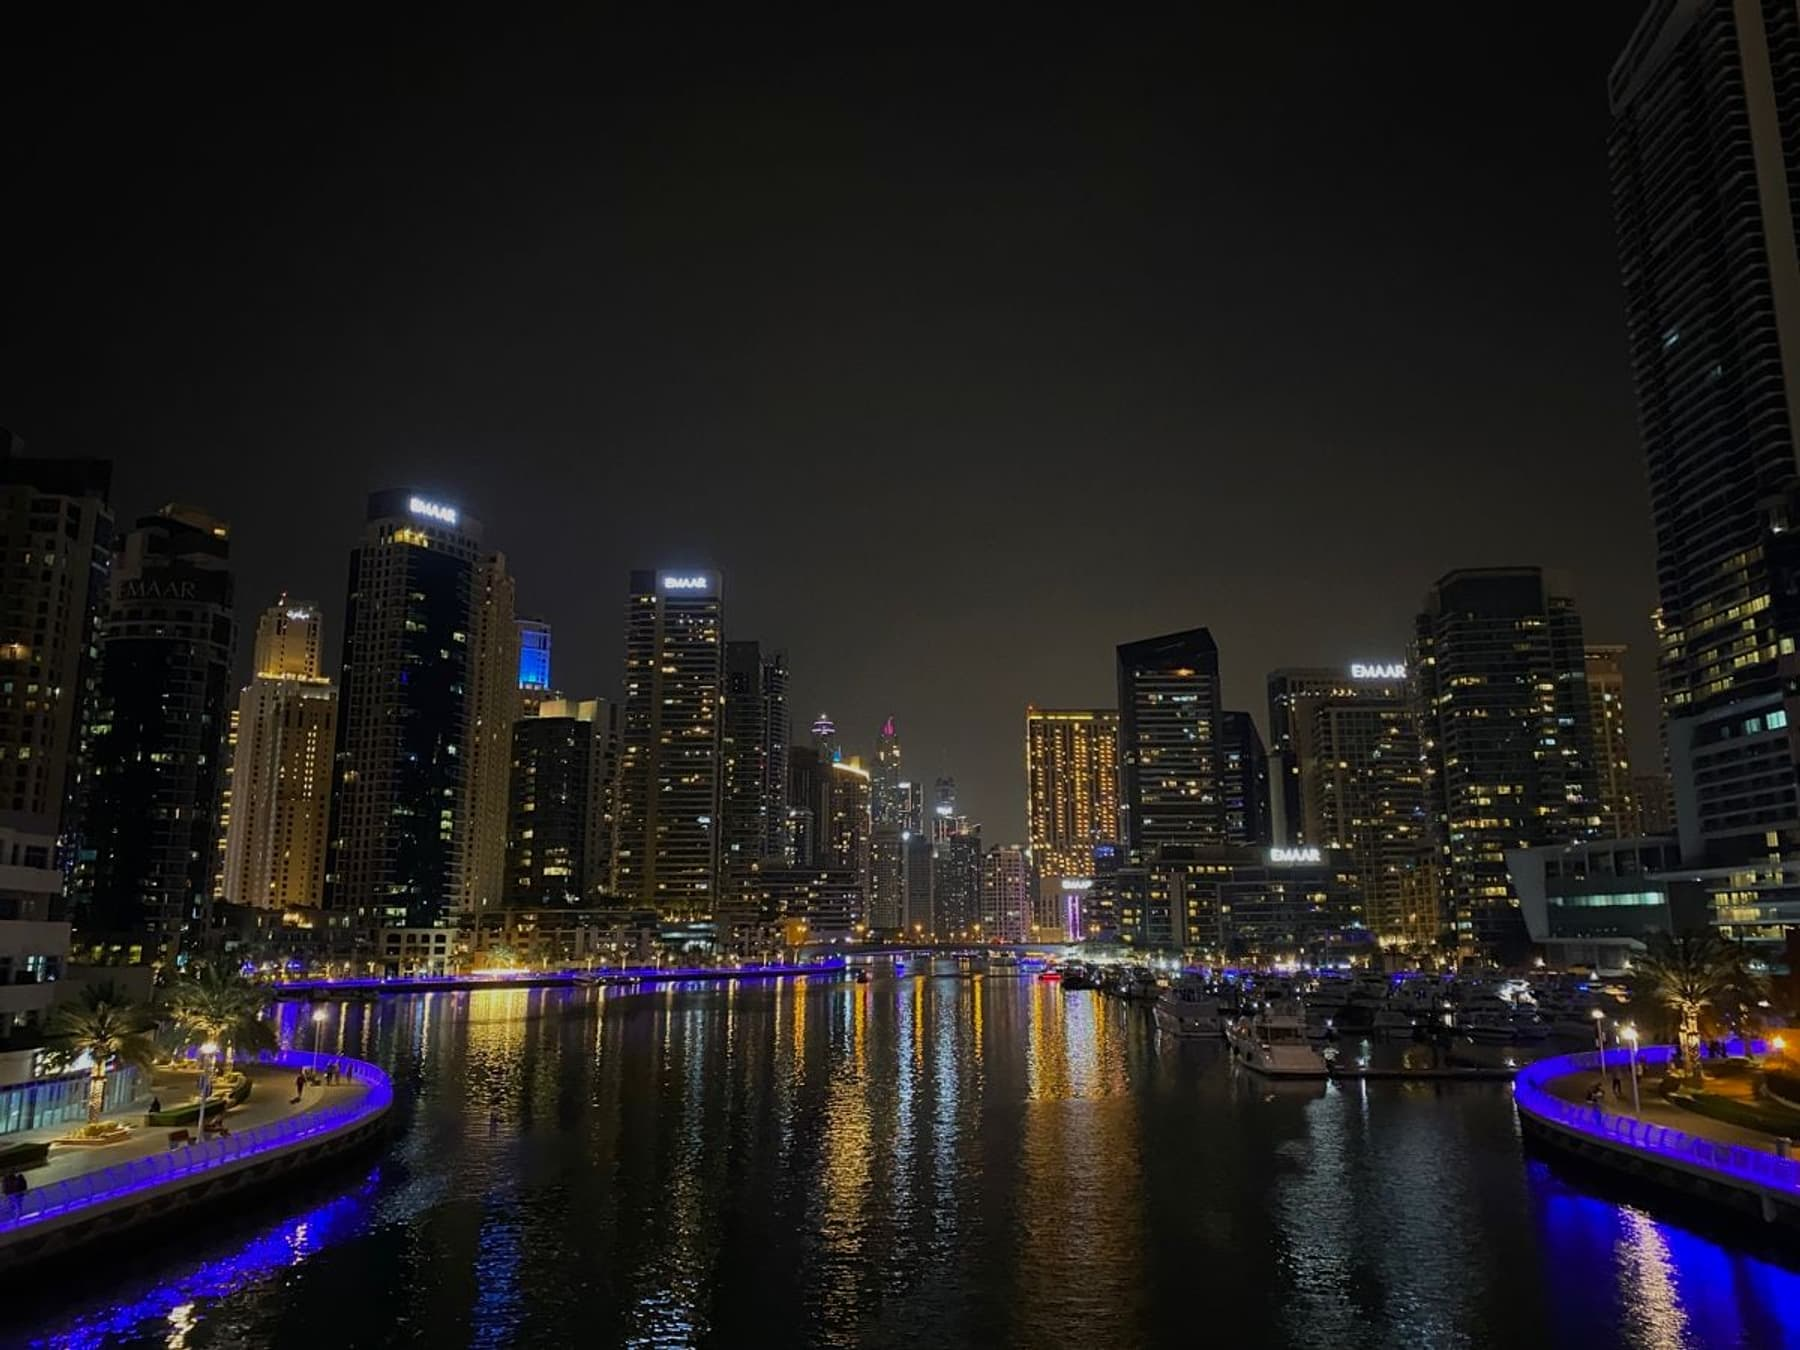
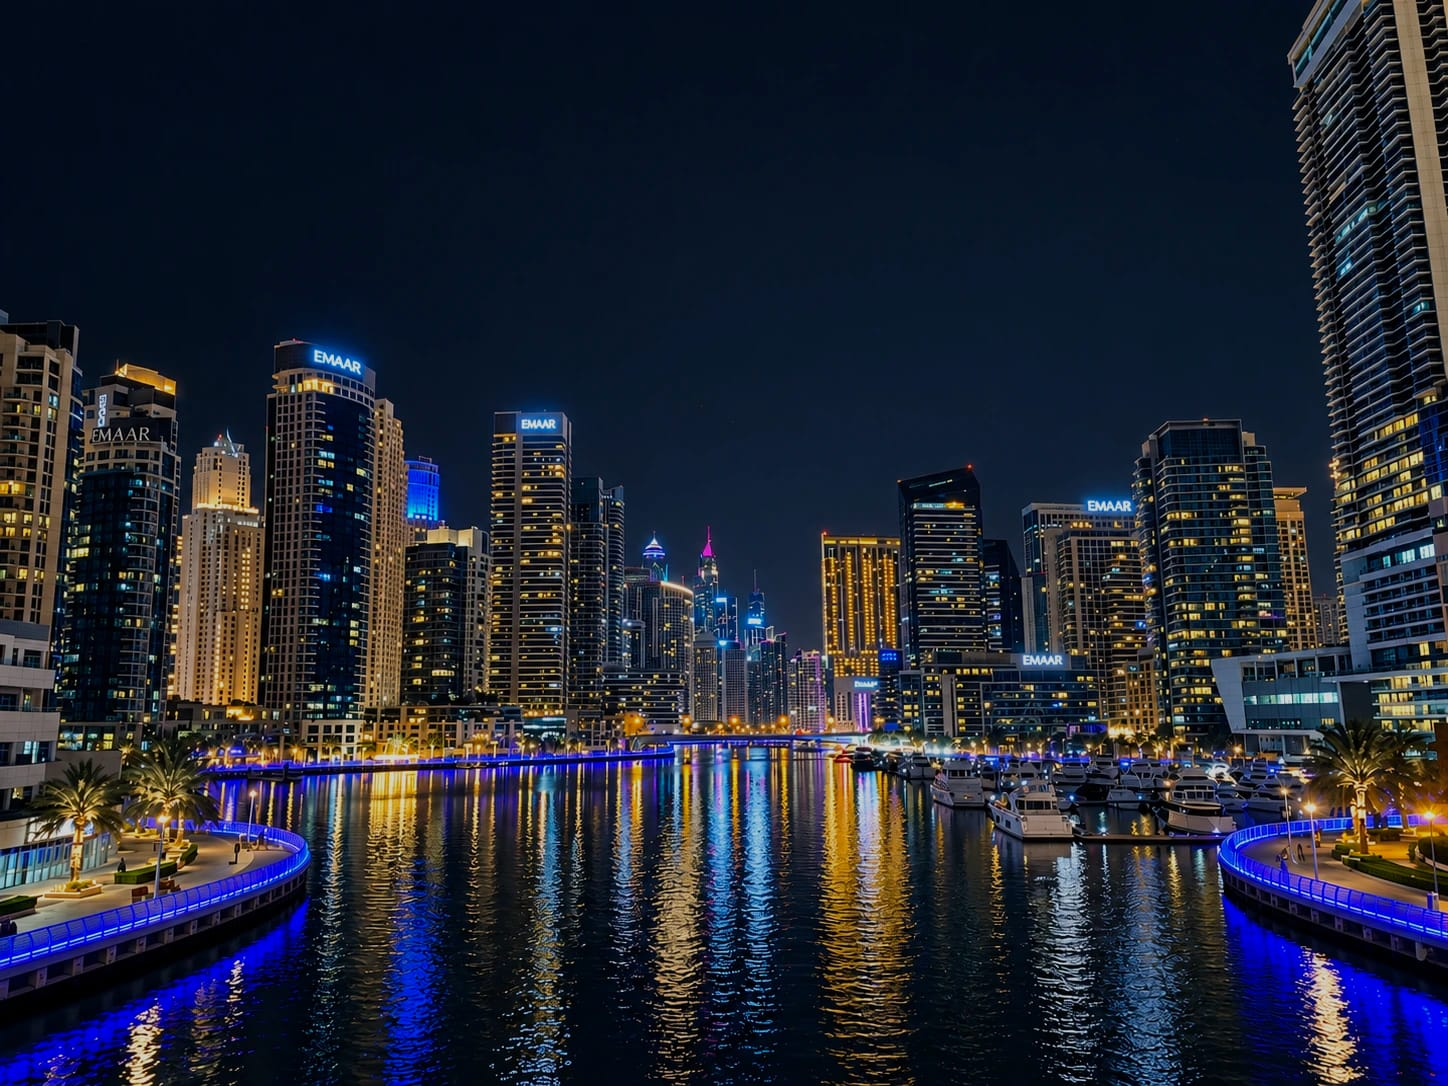
Portada: foto nueva del usuario, de verdad más nítida esta vez
La vez pasada reinterpolé y afilé la foto que había (1200px de
origen) porque era lo único disponible; quedó mejor pero seguía
siendo una mejora sobre una base floja. Esta vez el usuario mandó una
copia distinta de la misma foto, a 1448×1086 contra los 1200×900 de
antes: 21% más ancha, y sobre todo mucho menos comprimida — un
recorte 1:1 de la misma zona (el edificio EMAAR) lo muestra a ojo:
letras limpias, ventanas individuales distinguibles, cielo con
degradé real en vez de ruido. Esta es la base, no un parche sobre la
vieja.

Se oscurece con el mismo nivel que ya se había probado y confirmado
la vez pasada (brillo al 85%), sin tocar nada más: sobre una fuente
que ya viene nítida, afilarla de más sólo arriesga artefactos. Se
prueban tres calidades de guardado (88/80/74) renderizadas en la
página real, no sólo en un recorte aislado, con el peor caso (subida
a 1920px, sobre la tipografía EMAAR y el degradé del cielo, donde el
banding se nota primero): las tres se ven limpias, se opta por 80 —
clara de margen sobre el piso verificado, sin pagar el peso de la más
alta sin necesidad.

Las dimensiones del <img> pasan a 1448×1086 (las reales del archivo,
sin inventar una escala de más). Peso final: 268 KB.

Verificado: auditoría limpia en los tres modos, contraste del texto
suelto sobre la foto sin cambios (8.4-15.3:1), menú y panel sin
alteraciones de comportamiento.

Claude-Session: https://claude.ai/code/session_01VxEV1k3VPBN4zz2g9TfUd5

diff --git a/index.html b/index.html
@@ -198,7 +198,7 @@
   <!-- Una sola foto a pantalla completa. Cambiarla es cambiar el src de
        esta imagen; object-position (en el CSS) decide qué parte se ve. -->
   <figure class="hero__photo" aria-hidden="true">
-    <img src="img/portada.jpg" alt="" width="1800" height="1350" fetchpriority="high">
+    <img src="img/portada.jpg" alt="" width="1448" height="1086" fetchpriority="high">
   </figure>
   <div class="hero__veil" aria-hidden="true"></div>
 
